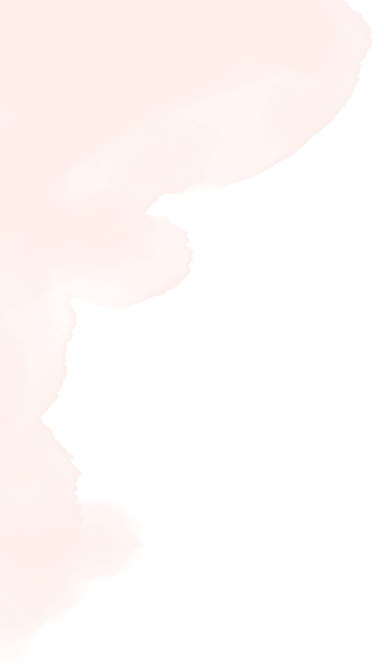
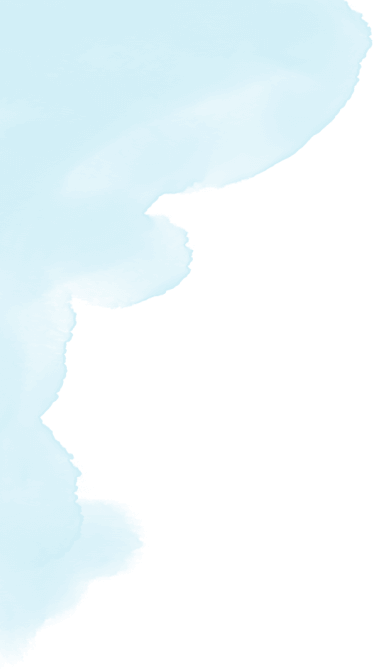
got LF Projects bar working

diff --git a/assets/scss/components/_navbar.scss b/assets/scss/components/_navbar.scss
@@ -7,7 +7,7 @@
   flex-wrap: wrap; // allow us to do the line break for collapsing content
   align-items: center;
   justify-content: space-between; // space out brand from logo
-  padding-top: 1.5rem;
+  padding-top: 3rem;
   padding-right: 5.4rem; // default: null
   padding-bottom: 1.5rem;
   padding-left: 5.4rem; // default: null
@@ -289,6 +289,20 @@
   svg {
     path {
       stroke: $color-white;
+    }
+  }
+}
+
+@include media-breakpoint-up-lg {
+  .lfprojects {
+    background: #252525;
+    padding-left: 5.4rem;
+    width: 100%;
+    line-height: 33px;
+    height: 33px;
+    img {
+      max-width: 270px;
+      vertical-align: middle;
     }
   }
 }

diff --git a/assets/scss/_variables.scss b/assets/scss/_variables.scss
@@ -1,8 +1,6 @@
-//Import fonts from https://fonts.google.com/
-@import url("https://fonts.googleapis.com/css2?family=Sora:wght@300;400;500;600;700;800&family=Space+Grotesk:wght@300;400;500;600;700&display=swap");
 // Font Variables
-$font-primary: "Sora", sans-serif;
-$font-secondary: "Space Grotesk", sans-serif;
+$font-primary: -apple-system,BlinkMacSystemFont,"Segoe UI",Helvetica,Arial,sans-serif,Roboto,Ubuntu,"Apple Color Emoji","Segoe UI Emoji","Segoe UI Symbol";
+$font-secondary: $font-primary;
 $base-font-size: 1rem;
 $regular-font-weight: 400;
 $medium-font-weight: 500;

diff --git a/layouts/partials/navbar.html b/layouts/partials/navbar.html
@@ -2,6 +2,10 @@
 {{ $permalink := path.Join $permalink "/"}}
 {{ $current := . }}
 <header>
+   <div class="lfprojects position-fixed">
+      <a href="https://www.linuxfoundation.org/projects" target="_blank" rel="noopener noreferrer"><img src="/images/lfprojects_banner.png"></a>
+   </div>
+
    <nav class="navbar navbar-expand-lg position-fixed w-100 zindex-dropdown" id="mainnavigationBar">
       <a class="navbar-brand" href="/">
          <img src="/images/chips_alliance.svg" alt="Nav-Logo" />

diff --git a/component-library/components/home/hero/hero.hugo.html b/component-library/components/home/hero/hero.hugo.html
@@ -16,7 +16,7 @@
         <div class="hero-two-banner">
           <img src="{{.image_path}}" alt="hero-two-images" />
           <div class="hero-two-banner-shape">
-            <img src="/images/hero/hero-three-shape.png" alt="shape" />
+            <img src="/images/hero/hero-one-shape.png" alt="shape" />
           </div>
         </div>
       </div>

diff --git a/assets/scss/components/_hero.scss b/assets/scss/components/_hero.scss
@@ -153,12 +153,12 @@
       margin-right: -13px;
       z-index: 1;
       img {
-        max-height: 700px;
+        max-height: 550px;
         border-radius: 20px 0 0 20px;
       }
       &-shape {
         position: absolute;
-        top: -26%;
+        top: -29%;
         left: 3%;
         z-index: -1;
         @include media-breakpoint-down-lg {
